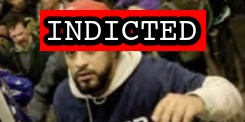
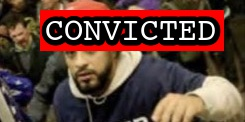
Latest guilty plea

Changed region(s): [[0.1429, 0.0738, 0.9429, 0.4426], [0.7143, 0.3689, 0.7429, 0.3934]]

diff --git a/docs/_suspects/joshua-hernandez.md b/docs/_suspects/joshua-hernandez.md
@@ -4,11 +4,11 @@ lastName: Hernandez
 hashtag: RedBucketHat
 aka: Ace Hernandez
 residence: Tennessee
-status: Indicted
+status: Convicted
 date: 2022-02-09
 charged: 2022-02-09
 indicted: 2022-02-09
-convicted:
+convicted: 2022-11-02
 acquitted:
 sentenced:
 dismissed:
@@ -40,7 +40,18 @@ caseName: USA v. HERNANDEZ
 judge: Christopher R. Cooper
 videos:
 charges:
+  - code: 18 USC § 231(a)(3)
+    title: Obstruction of Law Enforcement During Civil Disorder
+    url: https://www.law.cornell.edu/uscode/text/18/231
+    felony: true
+  - code: 18 USC § 111(a)(1)
+    title: Assaulting, resisting, or impeding certain officers or employees
+    url: https://www.law.cornell.edu/uscode/text/18/111
+    felony: true
 sentence:
 ---
+
 - [News Report](https://www.localmemphis.com/article/news/crime/memphis-man-arrested-in-connection-to-capitol-riots/522-748ccd8d-bc7a-479b-a47a-ad3ac4326bff)
 - [Indictment](https://www.justice.gov/usao-dc/case-multi-defendant/file/1477121/download)
+- [Plea Agreement](https://www.justice.gov/usao-dc/case-multi-defendant/file/1549066/download)
+- [Statement of Offense](https://www.justice.gov/usao-dc/case-multi-defendant/file/1549071/download)
